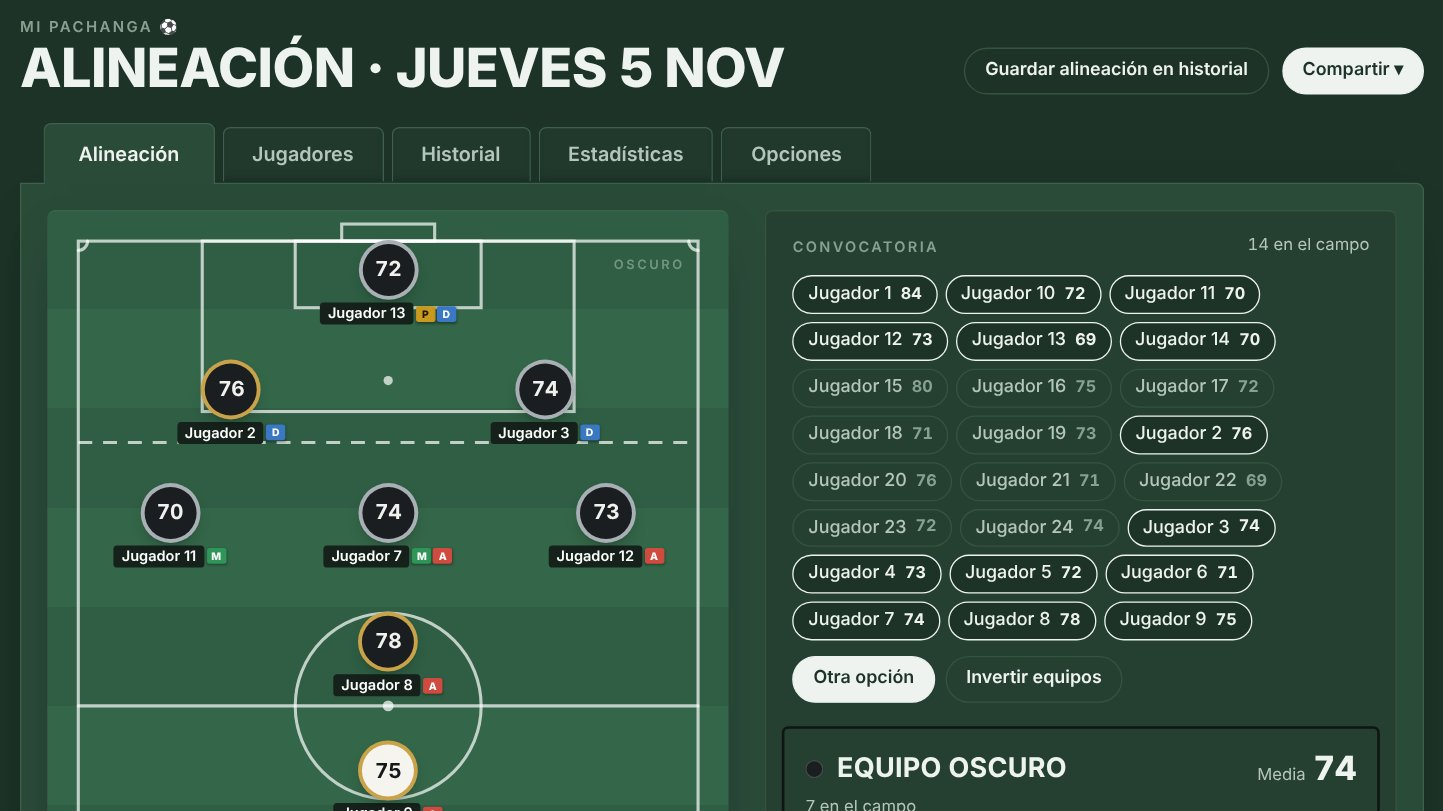
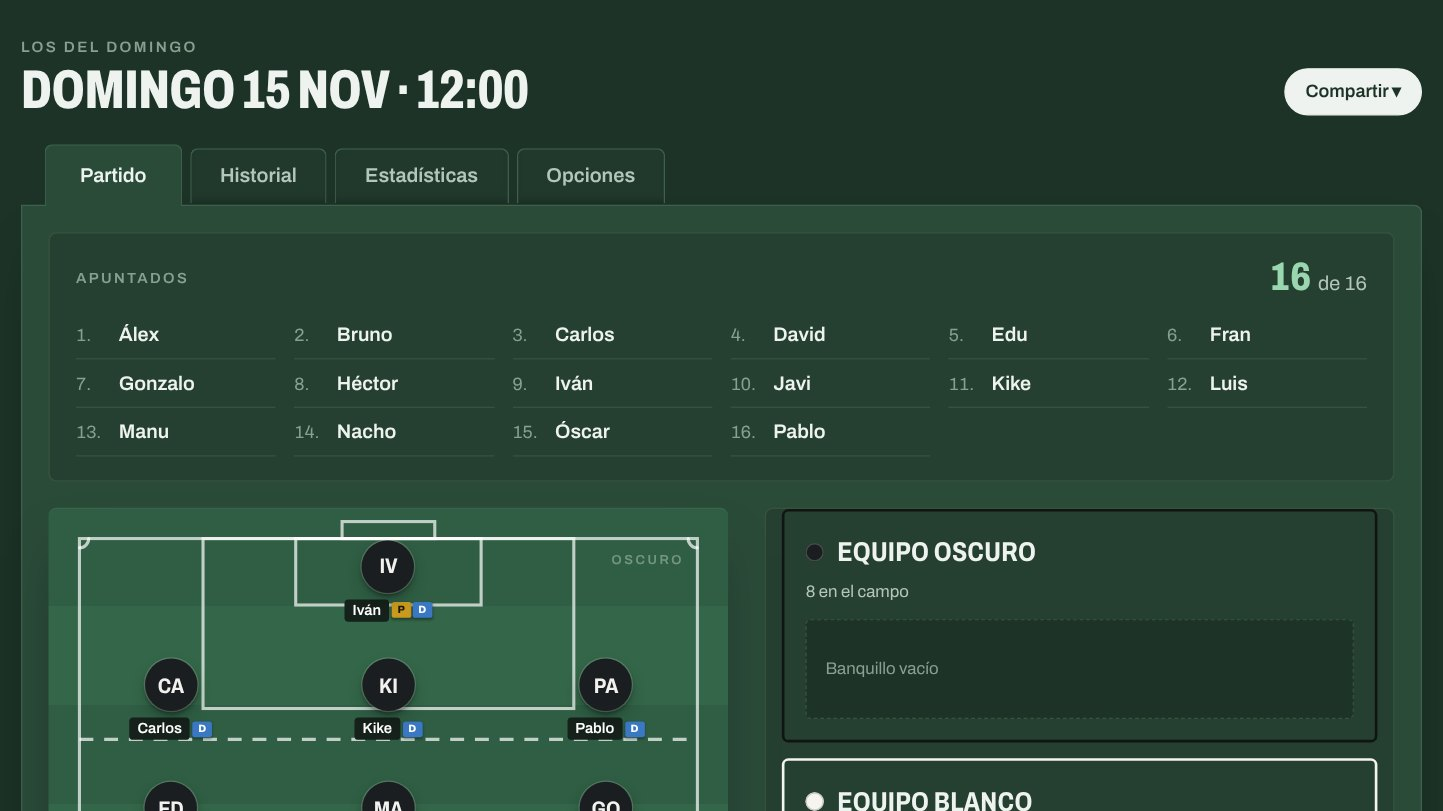
Mi pachanga: descripción y captura al día
La app ya no tiene medias: el organizador apunta a quien viene, los equipos se
equilibran por posiciones y el grupo la ve con un enlace (Firebase), con
historial, estadísticas y Rewind. Captura nueva de la vista del grupo.

Claude-Session: https://claude.ai/code/session_01AiS7iS8gLS4FYZNZ9G7T3A

diff --git a/index.html b/index.html
@@ -106,15 +106,17 @@
         </a>
         <div class="destacado-texto">
           <h3>Mi pachanga</h3>
-          <p>Pizarra para la pachanga del fin de semana: marcas quién viene, reparte dos equipos lo más igualados
-            posible según las notas y las posiciones de cada jugador, y los colocas arrastrando los imanes. Fútbol 7, 8 u 11.</p>
-          <p class="nota">Guarda el historial con resultados y goleadores y saca estadísticas. Se instala en el móvil,
-            funciona sin conexión y los datos se quedan en tu dispositivo, con copias de seguridad.</p>
+          <p>La pachanga del grupo en una app: el organizador apunta a quien viene y los equipos se reparten solos,
+            equilibrados por posiciones, en una pizarra donde se retocan arrastrando los imanes. Fútbol 7, 8 u 11.</p>
+          <p class="nota">El grupo entra con un enlace y ve la lista, la alineación, el historial con resultados y
+            goleadores y las estadísticas, y a final de año un <em>Rewind</em> en historias. Datos en Firebase con
+            reglas de seguridad; se instala en el móvil y funciona sin conexión.</p>
           <ul class="etiquetas" aria-label="Tecnologías">
             <li>JavaScript</li>
             <li>PWA</li>
+            <li>Firebase</li>
+            <li>Firestore</li>
             <li>Service Worker</li>
-            <li>localStorage</li>
             <li>Canvas</li>
           </ul>
           <p class="acciones">
